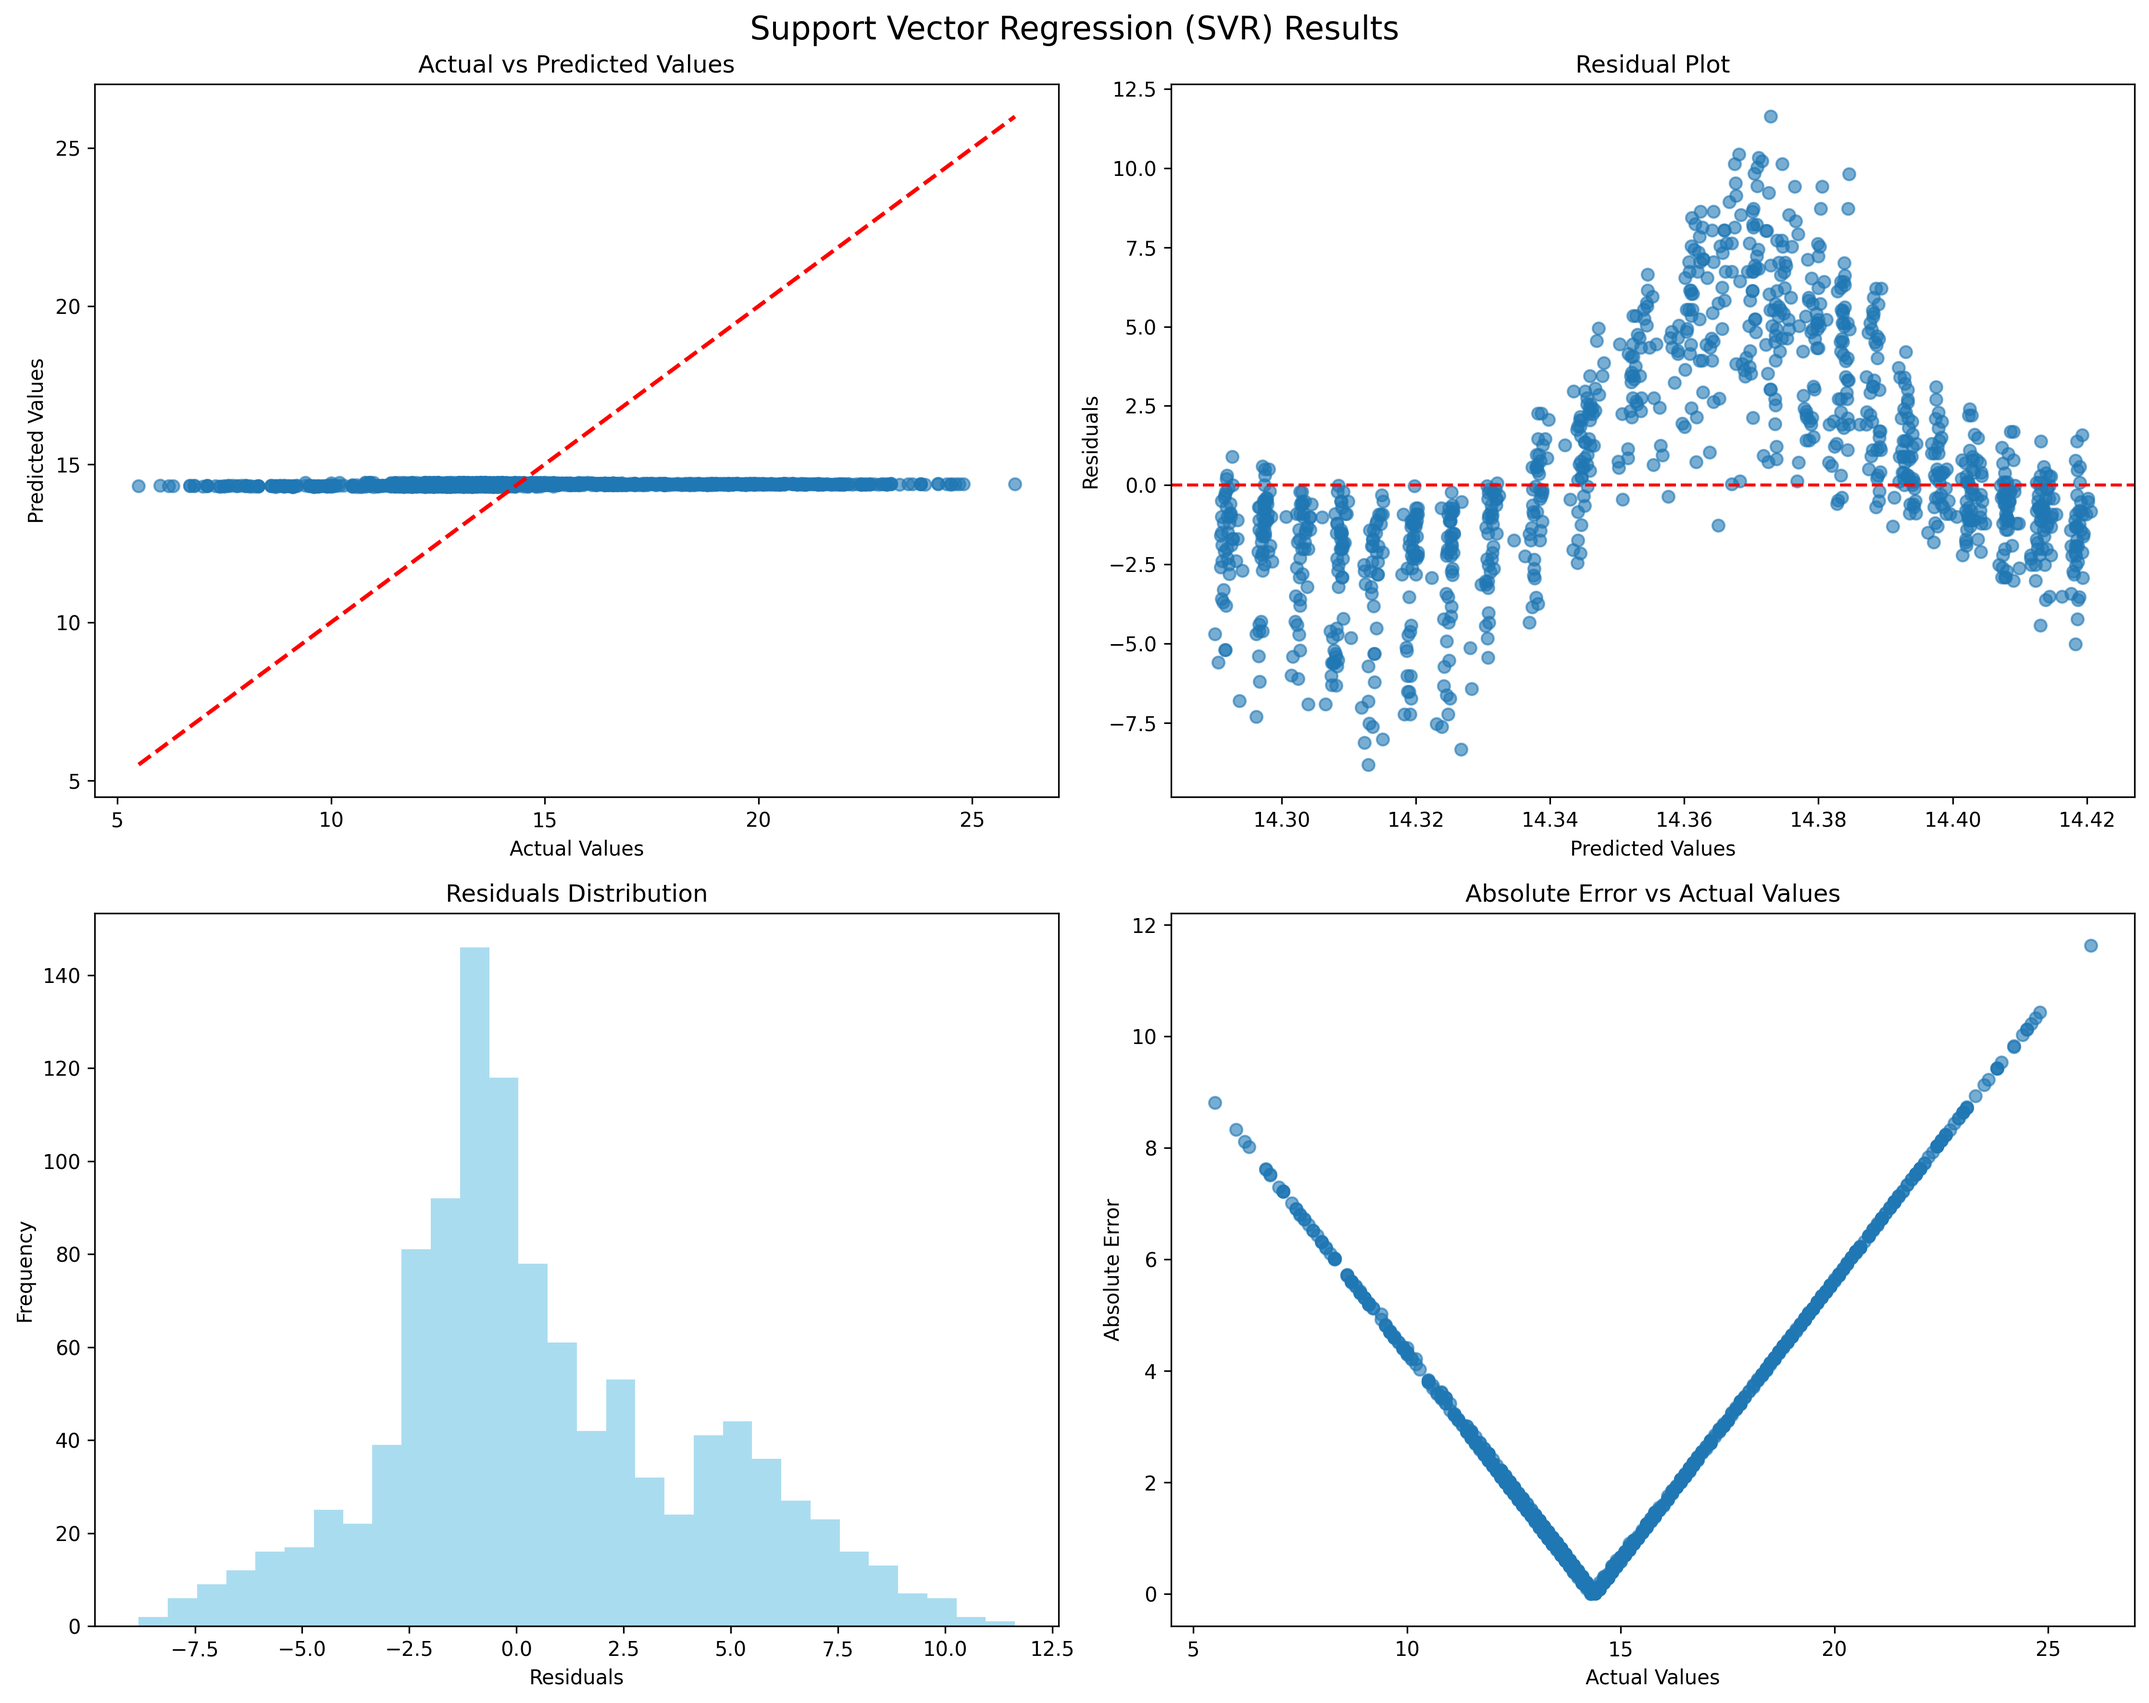
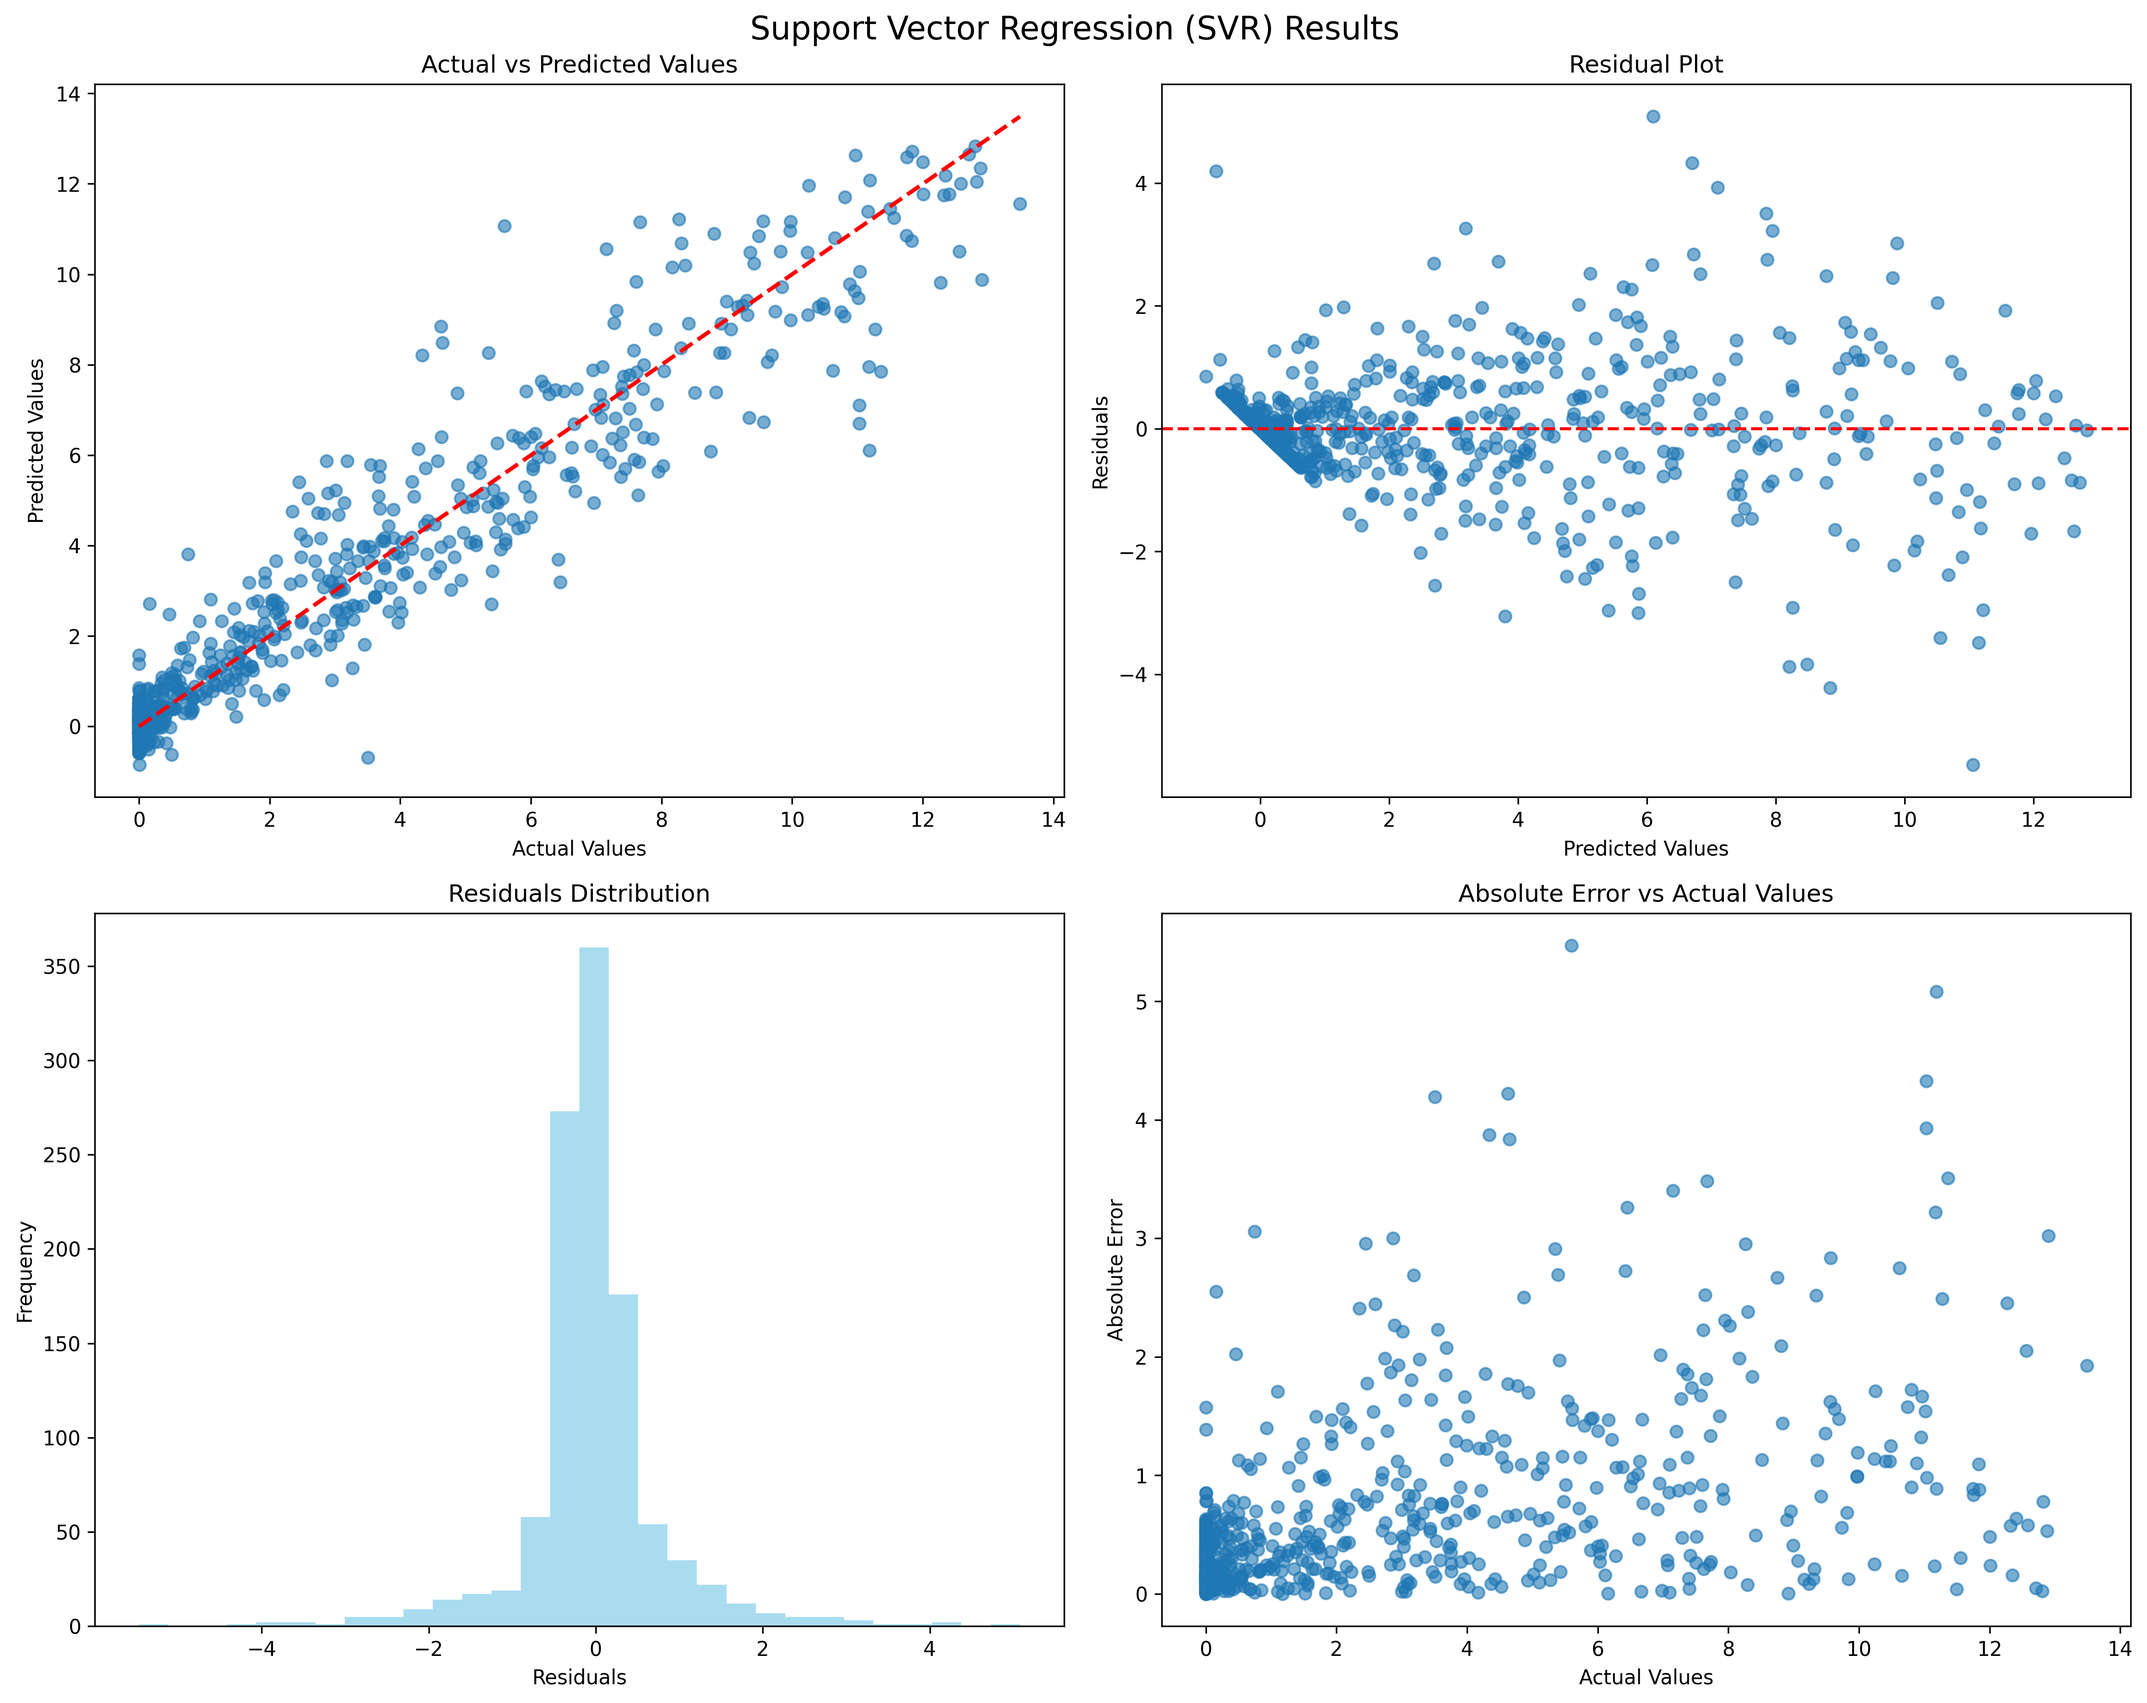
minor fixes

diff --git a/models/mlp_model.py b/models/mlp_model.py
@@ -7,6 +7,7 @@ from sklearn.metrics import mean_squared_error, mean_absolute_error, r2_score
 from sklearn.neural_network import MLPRegressor
 from sklearn.pipeline import Pipeline
 import matplotlib.pyplot as plt
+from sklearn.model_selection import GridSearchCV
 import seaborn as sns
 from sklearn.metrics import (
   confusion_matrix,
@@ -68,6 +69,46 @@ class MLPModel:
     print(f"R2-score: {metrics['r2']:.4f}")
 
     return metrics
+
+  def get_best_estimator(self, X, y):
+    model = MLPRegressor(
+      hidden_layer_sizes=(16, 8),
+      activation="relu",
+      solver="adam",
+      alpha=0.5,
+      random_state=28,
+      learning_rate="adaptive",
+      learning_rate_init=0.001,
+      max_iter=500,
+      early_stopping=True,
+    )
+
+    param_grid = [
+      {
+        "hidden_layer_sizes": [(8, 4), (16, 8), (32, 16), (64, 32), (128, 64)],
+        "activation": ["relu", "tanh"],
+        "solver": ["adam", "lbfgs"],
+        "alpha": [0.001, 0.01, 0.1, 0.5],
+        "learning_rate": ["constant", "adaptive"],
+        "learning_rate_init": [0.001, 0.01, 0.1],
+        "max_iter": [300, 500, 1000],
+      },
+    ]
+
+    grid_search = GridSearchCV(
+      model,
+      param_grid,
+      cv=3,
+      scoring="neg_mean_squared_error",
+      n_jobs=1,
+      verbose=2,
+    )
+
+    grid_search.fit(X, y)
+
+    print("Best parameters found: ", grid_search.best_params_)
+
+    return grid_search.best_estimator_
 
   def plot_results(
     self, X, y_true, save_path="mlp_results.png", task_type="regression"

diff --git a/models/svm_model.py b/models/svm_model.py
@@ -16,7 +16,7 @@ from sklearn.metrics import (
 
 class SVMModel:
   def __init__(self, path="svm_model.joblib"):
-    self.model = SVR(kernel="rbf")
+    self.model = SVR(kernel="rbf", C=100, epsilon=0.5, gamma="auto")
     self.model_path = path
 
   def train(self, X, y):
@@ -50,36 +50,24 @@ class SVMModel:
       {
         # RBF Kernel (Primary recommendation)
         "kernel": ["rbf"],
-        "C": [0.1, 1, 10, 100, 1000],
-        "gamma": ["scale", "auto", 0.001, 0.01, 0.1, 1, 10],
-        "epsilon": [0.01, 0.1, 0.2, 0.5, 1.0],
-      },
-      {
-        # Linear Kernel (Alternative)
-        "kernel": ["linear"],
-        "C": [0.1, 1, 10, 100, 1000],
-        "epsilon": [0.01, 0.1, 0.2, 0.5, 1.0],
-      },
-      {
-        # Polynomial Kernel (For comparison)
-        "kernel": ["poly"],
-        "C": [0.1, 1, 10, 100],
-        "degree": [2, 3, 4],
-        "gamma": ["scale", "auto", 0.01, 0.1, 1],
-        "epsilon": [0.01, 0.1, 0.2],
+        "C": [10, 100, 1000],
+        "epsilon": [0.2, 0.5, 1.0],
+        "gamma": ["scale", "auto", 0.001],
       },
     ]
 
     grid_search = GridSearchCV(
       model,
       param_grid,
-      cv=5,
-      scoring="r2",
-      n_jobs=-1,
-      verbose=1,
+      cv=3,
+      scoring="neg_mean_squared_error",
+      n_jobs=1,
+      verbose=2,
     )
 
     grid_search.fit(X, y)
+
+    print("Best parameters found: ", grid_search.best_params_)
 
     return grid_search.best_estimator_
 

diff --git a/api.py b/api.py
@@ -15,24 +15,26 @@ app.add_middleware(
 )
 
 numerical_features = [
+  "AMBTEMP",
   "COUGM3",
   "NO2UGM3",
   "O3UGM3",
   "PM25",
   "SO2UGM3",
-  "UV_INDEX",
+  # "UV_INDEX",
 ]
 
 
 class Weather(BaseModel):
   datetime: str
+  ambtemp: float
   cougm3: float
   no2ugm3: float
   o3ugm3: float
   pm25: float
   rainfall: float
   so2ugm3: float
-  uv_index: float
+  # uv_index: float
 
 
 @app.post("/predict")
@@ -41,13 +43,14 @@ def predict(data: Weather):
     [
       {
         "DATETIME": data.datetime,
+        "AMBTEMP": data.ambtemp,
         "COUGM3": data.cougm3,
         "NO2UGM3": data.no2ugm3,
         "O3UGM3": data.o3ugm3,
         "PM25": data.pm25,
         "RAINFALL": data.rainfall,
         "SO2UGM3": data.so2ugm3,
-        "UV_INDEX": data.uv_index,
+        # "UV_INDEX": data.uv_index,
       }
     ]
   )

diff --git a/compare.py b/compare.py
@@ -142,7 +142,7 @@ def main():
 
   # Predictive models
   run_random_forest_model(X_train, X_test, y_train, y_test, skip=True)
-  run_svm_model(X_train, X_test, y_train, y_test, skip=True)
+  run_svm_model(X_train, X_test, y_train, y_test, skip=False)
   run_lstm_model(
     X_train,
     X_test,
@@ -151,7 +151,7 @@ def main():
     window_size=24,
     skip=True,
   )
-  run_mlp_model(X_train, X_test, y_train, y_test, skip=False)
+  run_mlp_model(X_train, X_test, y_train, y_test, skip=True)
 
 
 if __name__ == "__main__":
